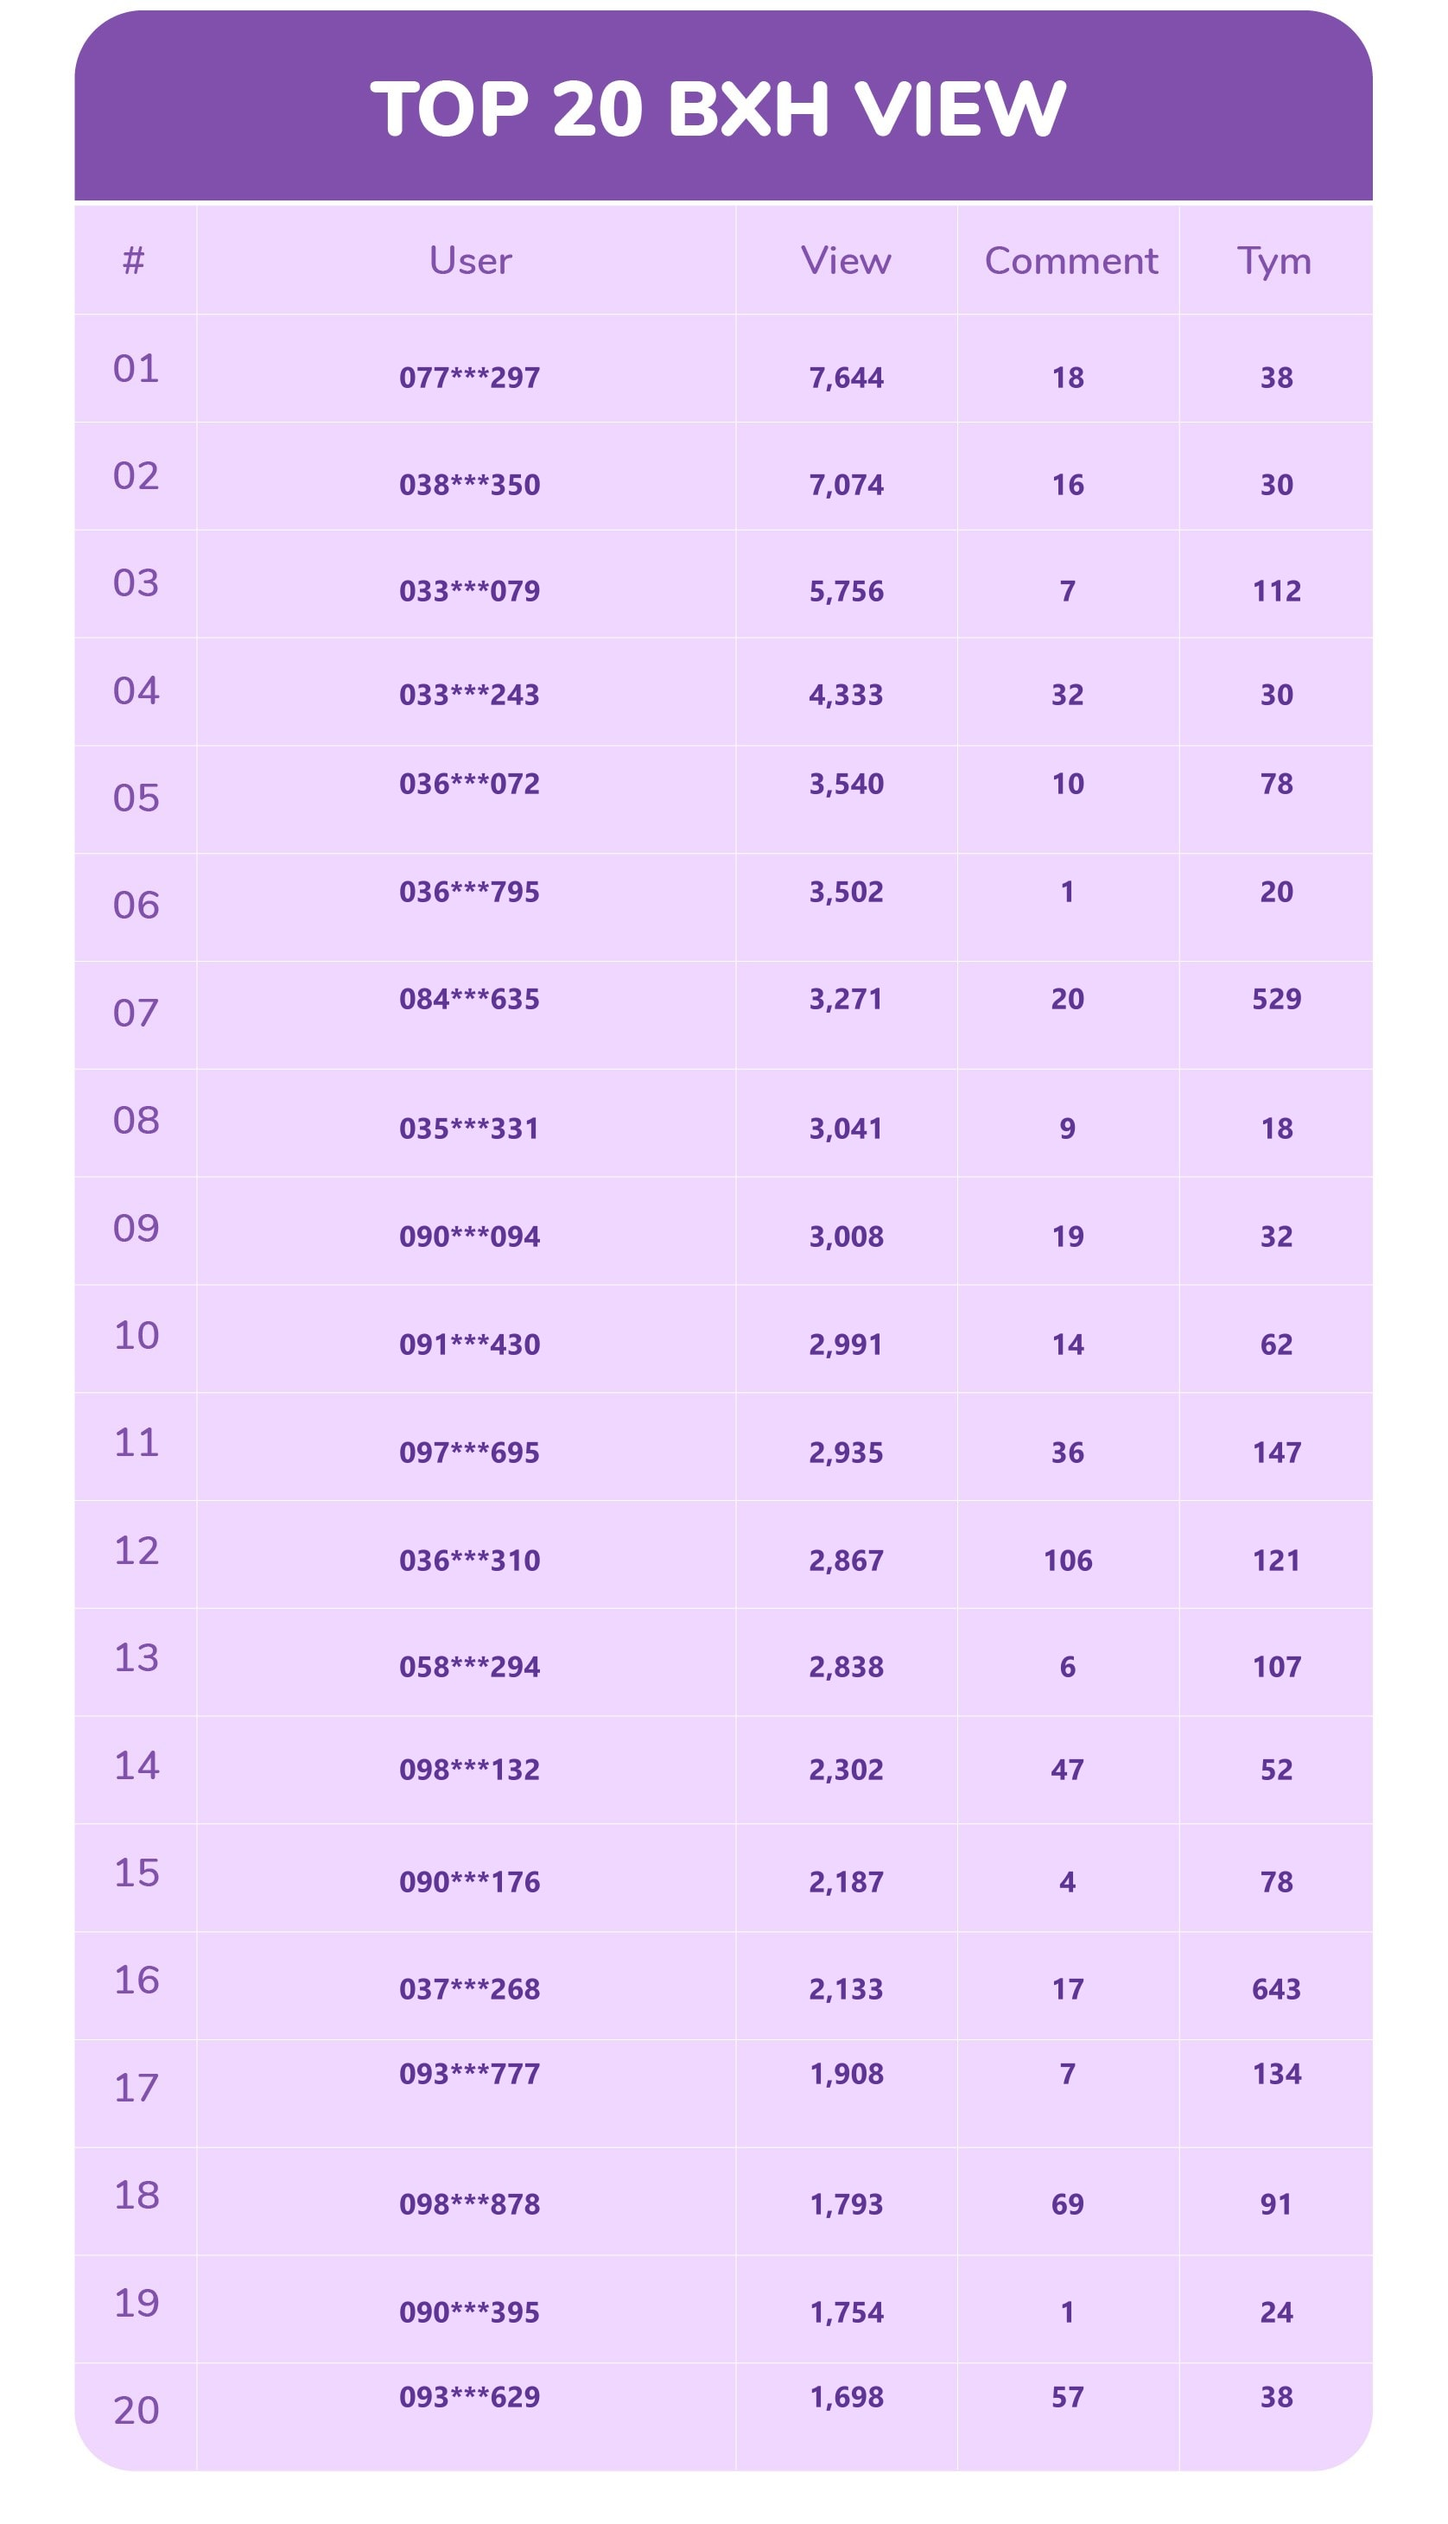
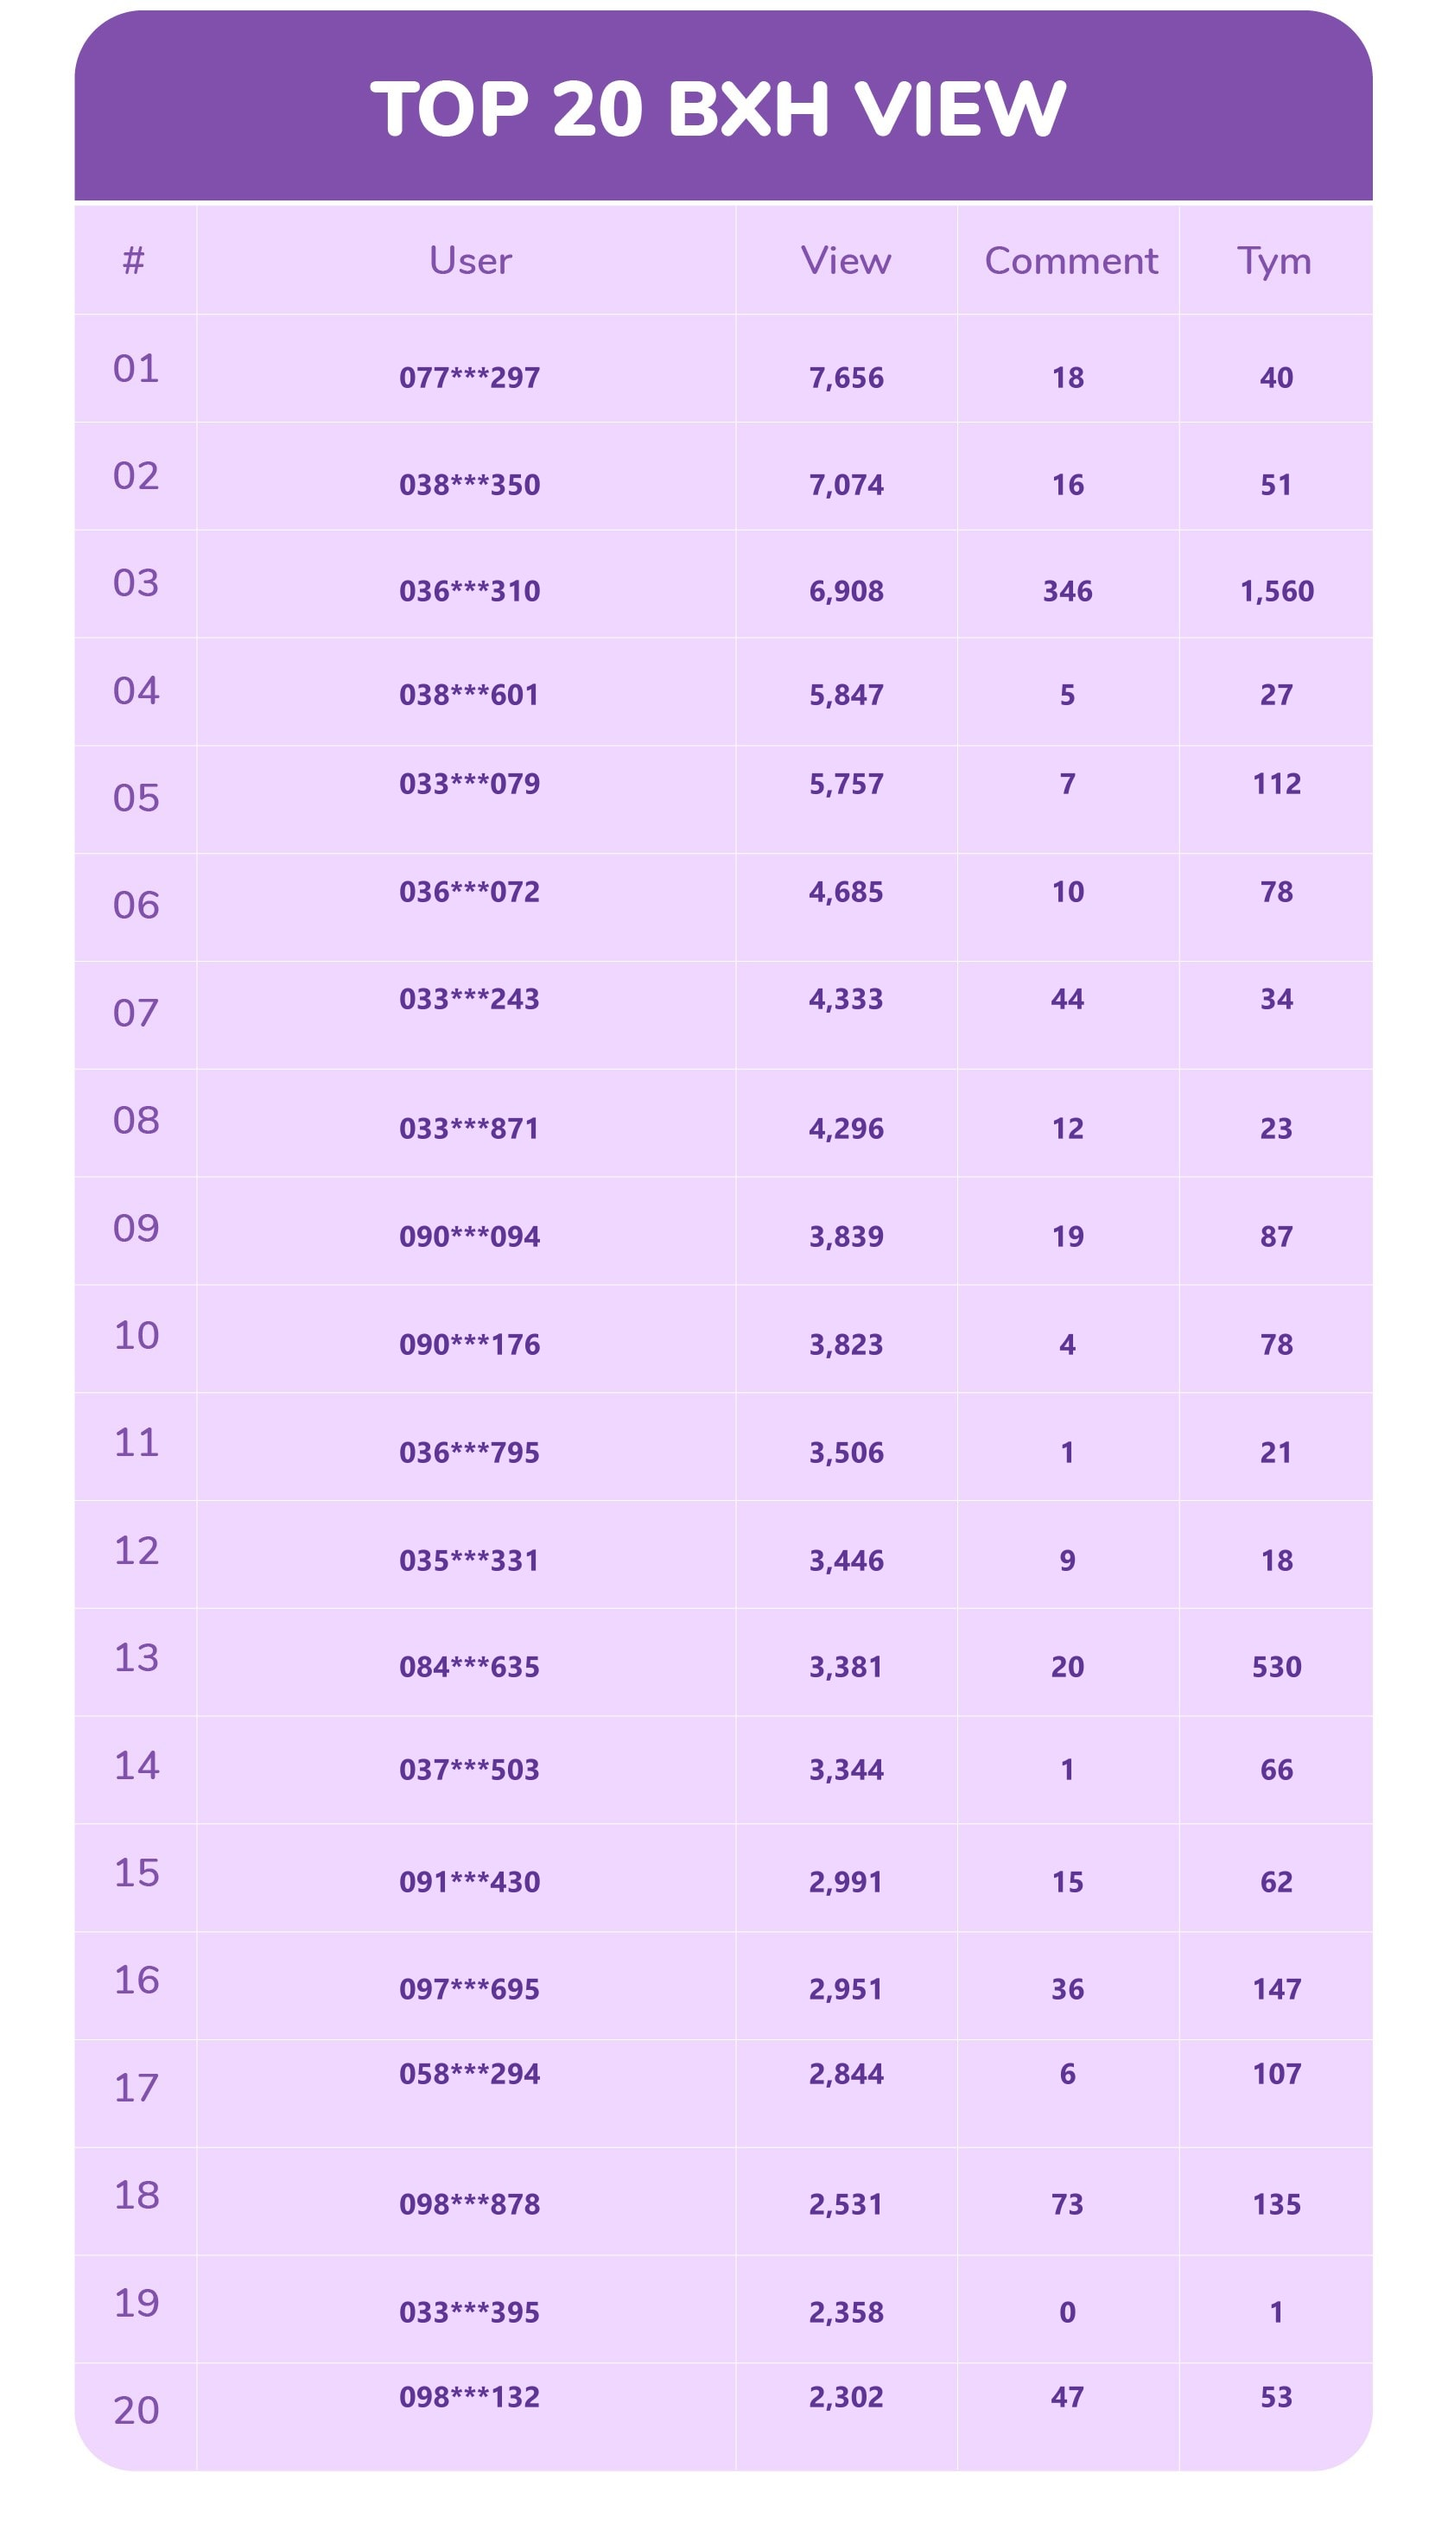
Chore: Publish updated Leaderboard Image with latest Facebook views [skip ci]

diff --git a/scripts/preview-bxh.js b/scripts/preview-bxh.js
@@ -1,0 +1,254 @@
+const config = require('../src/config');
+const googleSheet = require('../src/services/google-sheet');
+const { normalizePhoneNumber, maskPhoneNumber, parseSubmissionTimestamp } = require('../src/services/normalizer');
+const { isRowApproved, parseMetric } = require('../src/manual-bxh');
+
+async function previewBxh() {
+  console.log(`[PreviewBXH] ==========================================`);
+  console.log(`[PreviewBXH] 🔍 CHẾ ĐỘ XEM TRƯỚC BẢNG XẾP HẠNG (DRY-RUN)`);
+  console.log(`[PreviewBXH] ⚠ CHỈ HIỂN THỊ TẠI ĐÂY - TUYỆT ĐỐI KHÔNG GHI ĐÈ SHEET / KHÔNG ĐẨY ẢNH LÊN WEB`);
+  console.log(`[PreviewBXH] Thời gian: ${new Date().toISOString()}`);
+  console.log(`[PreviewBXH] ==========================================\n`);
+
+  const sheets = googleSheet.getSheetsClient();
+  const sourceSheetId = config.GOOGLE_SOURCE_SHEET_ID;
+  const targetTab = config.SOURCE_TAB_NAME || 'Link bài thi';
+
+  console.log(`[PreviewBXH] 📥 Đang tải dữ liệu từ Sheet ID: ${sourceSheetId} (Tab: '${targetTab}')...`);
+
+  const range = `'${targetTab}'!A:Z`;
+  const res = await sheets.spreadsheets.values.get({
+    spreadsheetId: sourceSheetId,
+    range
+  });
+
+  const rows = res.data.values || [];
+  if (rows.length <= 1) {
+    console.warn(`[PreviewBXH] ⚠ Không có dữ liệu trong sheet '${targetTab}'.`);
+    return;
+  }
+
+  console.log(`[PreviewBXH] Đã tải ${rows.length} dòng dữ liệu (bao gồm header).`);
+
+  const headerRow = rows[0] || [];
+  const headers = headerRow.map(h => String(h).toLowerCase().trim());
+
+  let timeIdx = headers.findIndex(h => h.includes('thời gian') || h.includes('time') || h.includes('ngày nộp'));
+  let phoneIdx = headers.findIndex(h => h.includes('sđt') || h.includes('điện thoại') || h.includes('phone'));
+  let platformIdx = headers.findIndex(h => h.includes('nền tảng') || h.includes('platform'));
+  let linkIdx = headers.findIndex(h => h.includes('link') || h.includes('bài thi') || h.includes('url'));
+  let statusIdx = headers.findIndex(h => h.includes('nhãn check') || h.includes('nhan check') || h.includes('trạng thái') || h.includes('duyệt'));
+  let nameIdx = headers.findIndex(h => (h.includes('tên') || h.includes('name')) && !h.includes('profile'));
+  if (nameIdx === -1) {
+    nameIdx = headers.findIndex(h => h.includes('profile'));
+  }
+  let viewIdx = headers.findIndex(h => h.includes('view') || h.includes('lượt xem'));
+  let reactIdx = headers.findIndex(h => h.includes('react') || h.includes('tym') || h.includes('thích'));
+  let commentIdx = headers.findIndex(h => h.includes('comment') || h.includes('bình luận'));
+  let postIdIdx = headers.findIndex(h => h.includes('post id') || h.includes('postid') || h.includes('post_id') || h.includes('id bài') || h.includes('id video'));
+
+  if (timeIdx === -1) timeIdx = 1;
+  if (phoneIdx === -1) phoneIdx = 2;
+  if (platformIdx === -1) platformIdx = 3;
+  if (linkIdx === -1) linkIdx = 4;
+  if (statusIdx === -1) statusIdx = 5;
+  if (nameIdx === -1) nameIdx = 8;
+  if (viewIdx === -1) viewIdx = 11;
+  if (reactIdx === -1) reactIdx = 12;
+  if (commentIdx === -1) commentIdx = 13;
+  if (postIdIdx === -1) postIdIdx = 14;
+
+  const bxhFallbackMap = new Map();
+  try {
+    const resBxh = await sheets.spreadsheets.values.get({
+      spreadsheetId: sourceSheetId,
+      range: "'BXH'!A:N"
+    });
+    const bxhRows = resBxh.data.values || [];
+    for (let i = 1; i < bxhRows.length; i++) {
+      const bxhRow = bxhRows[i];
+      const link = bxhRow[4] ? String(bxhRow[4]).trim() : '';
+      const status = bxhRow[5] ? String(bxhRow[5]).trim() : '';
+      const view = bxhRow[11] ? parseMetric(bxhRow[11]) : 0;
+      const react = bxhRow[12] ? parseMetric(bxhRow[12]) : 0;
+      const comment = bxhRow[13] ? parseMetric(bxhRow[13]) : 0;
+      const name = bxhRow[8] ? String(bxhRow[8]).trim() : '';
+      if (link) {
+        bxhFallbackMap.set(link, { status, view, react, comment, name });
+      }
+    }
+  } catch (err) {
+    console.warn(`[PreviewBXH] ⚠ Không thể đọc tab 'BXH' dự phòng:`, err.message);
+  }
+
+  const rawApprovedRows = [];
+
+  for (let i = 1; i < rows.length; i++) {
+    const r = rows[i];
+    if (!r || r.length === 0) continue;
+
+    const rawLink = r[linkIdx] !== undefined ? String(r[linkIdx]).trim() : '';
+    let rawStatus = r[statusIdx] !== undefined ? String(r[statusIdx]).trim() : '';
+
+    const fallbackData = rawLink ? bxhFallbackMap.get(rawLink) : null;
+    if ((!rawStatus || rawStatus.startsWith('#')) && fallbackData && fallbackData.status) {
+      rawStatus = fallbackData.status;
+    }
+
+    if (!isRowApproved(rawStatus)) {
+      continue;
+    }
+
+    const rawPhone = r[phoneIdx] !== undefined ? String(r[phoneIdx]).trim() : '';
+    const normPhone = normalizePhoneNumber(rawPhone);
+    if (!normPhone) {
+      continue;
+    }
+
+    const rawTime = r[timeIdx] !== undefined ? String(r[timeIdx]).trim() : '';
+    const parsedTime = parseSubmissionTimestamp(rawTime) || 0;
+    const platform = r[platformIdx] !== undefined ? String(r[platformIdx]).trim() : '';
+    let authorName = r[nameIdx] !== undefined ? String(r[nameIdx]).trim() : '';
+    if ((!authorName || authorName.startsWith('MS4w') || authorName === 'FALSE') && fallbackData && fallbackData.name) {
+      authorName = fallbackData.name;
+    }
+    let view = parseMetric(r[viewIdx]);
+    let react = parseMetric(r[reactIdx]);
+    let comment = parseMetric(r[commentIdx]);
+    if (view === 0 && fallbackData && fallbackData.view) view = fallbackData.view;
+    if (react === 0 && fallbackData && fallbackData.react) react = fallbackData.react;
+    if (comment === 0 && fallbackData && fallbackData.comment) comment = fallbackData.comment;
+
+    const postId = (postIdIdx !== -1 && r[postIdIdx] !== undefined) ? String(r[postIdIdx]).trim() : '';
+
+    rawApprovedRows.push({
+      rowIndex: i + 1,
+      phone: normPhone,
+      rawPhone,
+      platform,
+      rawLink,
+      authorName,
+      view,
+      react,
+      comment,
+      postId,
+      parsedTime
+    });
+  }
+
+  console.log(`[PreviewBXH] 📥 Đã tìm thấy ${rawApprovedRows.length} dòng có trạng thái Hợp lệ.`);
+
+  // Sắp xếp FCFS
+  rawApprovedRows.sort((a, b) => {
+    if (a.parsedTime !== b.parsedTime) return a.parsedTime - b.parsedTime;
+    return a.rowIndex - b.rowIndex;
+  });
+
+  // Lọc trùng theo Post ID
+  const seenPostKeys = new Map();
+  const uniqueVideos = [];
+  let duplicateCount = 0;
+
+  for (const item of rawApprovedRows) {
+    let postKey = '';
+    if (item.postId) {
+      const p = item.platform.toLowerCase();
+      const normP = (p.includes('tiktok') || item.rawLink.includes('tiktok')) ? 'tiktok' : (p.includes('facebook') || p.includes('fb') || item.rawLink.includes('facebook') || item.rawLink.includes('fb.watch')) ? 'fb' : 'post';
+      postKey = `${normP}:${item.postId}`;
+    } else if (item.rawLink) {
+      postKey = item.rawLink.trim();
+    }
+
+    if (postKey) {
+      if (seenPostKeys.has(postKey)) {
+        duplicateCount++;
+        continue;
+      }
+      seenPostKeys.set(postKey, item);
+    }
+
+    uniqueVideos.push(item);
+  }
+
+  // Gom nhóm theo SĐT
+  const contestantsMap = new Map();
+
+  for (const v of uniqueVideos) {
+    if (!contestantsMap.has(v.phone)) {
+      contestantsMap.set(v.phone, {
+        phone: v.phone,
+        phoneMasked: maskPhoneNumber(v.phone),
+        name: v.authorName || 'Thí sinh',
+        totalView: 0,
+        totalReact: 0,
+        totalComment: 0,
+        videoCount: 0,
+        primaryTimestamp: v.parsedTime
+      });
+    }
+
+    const contestant = contestantsMap.get(v.phone);
+    if (v.authorName && contestant.name === 'Thí sinh') {
+      contestant.name = v.authorName;
+    }
+
+    contestant.totalView += v.view;
+    contestant.totalReact += v.react;
+    contestant.totalComment += v.comment;
+    contestant.videoCount += 1;
+
+    if (!contestant.primaryTimestamp || (v.parsedTime && v.parsedTime < contestant.primaryTimestamp)) {
+      contestant.primaryTimestamp = v.parsedTime;
+    }
+  }
+
+  const contestants = Array.from(contestantsMap.values());
+  console.log(`[PreviewBXH] 📊 Đã xử lý xong: ${rawApprovedRows.length} video hợp lệ -> Loại ${duplicateCount} video trùng Post ID -> Còn ${uniqueVideos.length} video duy nhất từ ${contestants.length} thí sinh độc lập.\n`);
+
+  contestants.sort((a, b) => {
+    if (b.totalView !== a.totalView) return b.totalView - a.totalView;
+    const engA = a.totalReact + a.totalComment;
+    const engB = b.totalReact + b.totalComment;
+    if (engB !== engA) return engB - engA;
+    return (a.primaryTimestamp || 0) - (b.primaryTimestamp || 0);
+  });
+
+  return {
+    totalRows: rows.length,
+    rawApprovedRows: rawApprovedRows.length,
+    duplicateCount,
+    uniqueVideos: uniqueVideos.length,
+    totalContestants: contestants.length,
+    top25: contestants.slice(0, 25)
+  };
+}
+
+if (require.main === module) {
+  previewBxh()
+    .then((res) => {
+      if (!res) return;
+      console.log(`🏆 BẢNG XẾP HẠNG TOP 25 HIỆN TẠI (CHỈ XEM - KHÔNG PUBLISH):`);
+      console.log(`-------------------------------------------------------------------------------------------------------`);
+      console.log(`| Hạng | SĐT Thí Sinh | Tổng View | Bình Luận | Lượt Thích | Số Video | Tên Gợi Ý                     |`);
+      console.log(`-------------------------------------------------------------------------------------------------------`);
+      res.top25.forEach((c, idx) => {
+        const rankBadge = idx === 0 ? '🥇 1' : idx === 1 ? '🥈 2' : idx === 2 ? '🥉 3' : `${idx + 1}`;
+        console.log(
+          `| ${rankBadge.padEnd(4)} | ` +
+          `${c.phoneMasked.padEnd(12)} | ` +
+          `${c.totalView.toLocaleString('en-US').padStart(9)} | ` +
+          `${c.totalComment.toLocaleString('en-US').padStart(9)} | ` +
+          `${c.totalReact.toLocaleString('en-US').padStart(10)} | ` +
+          `${String(c.videoCount).padStart(8)} | ` +
+          `${c.name.slice(0, 29).padEnd(29)} |`
+        );
+      });
+      console.log(`-------------------------------------------------------------------------------------------------------\n`);
+      console.log(`[PreviewBXH] 🔒 BẢO LƯU: Toàn bộ dữ liệu web, file ảnh và Google Sheet Public được giữ nguyên 100%!`);
+    })
+    .catch((err) => {
+      console.error(`[PreviewBXH] ❌ Lỗi:`, err);
+    });
+}
+
+module.exports = { previewBxh };
